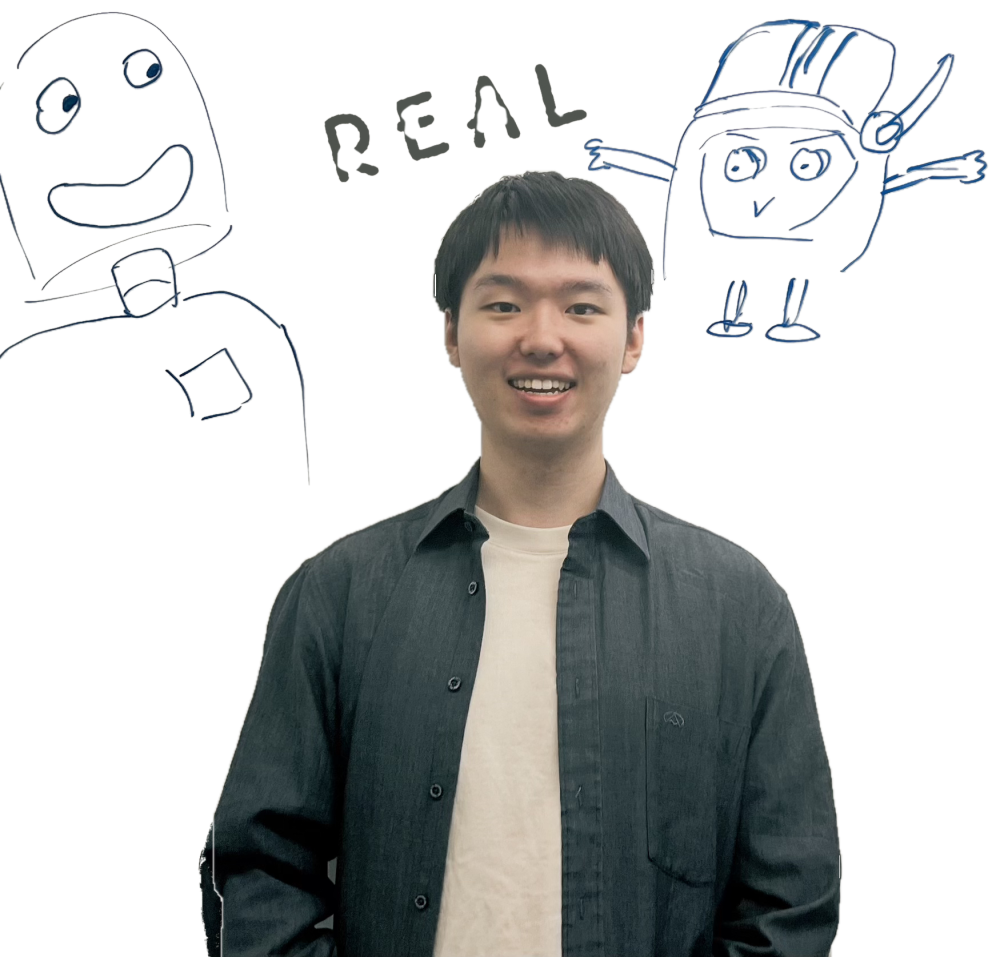
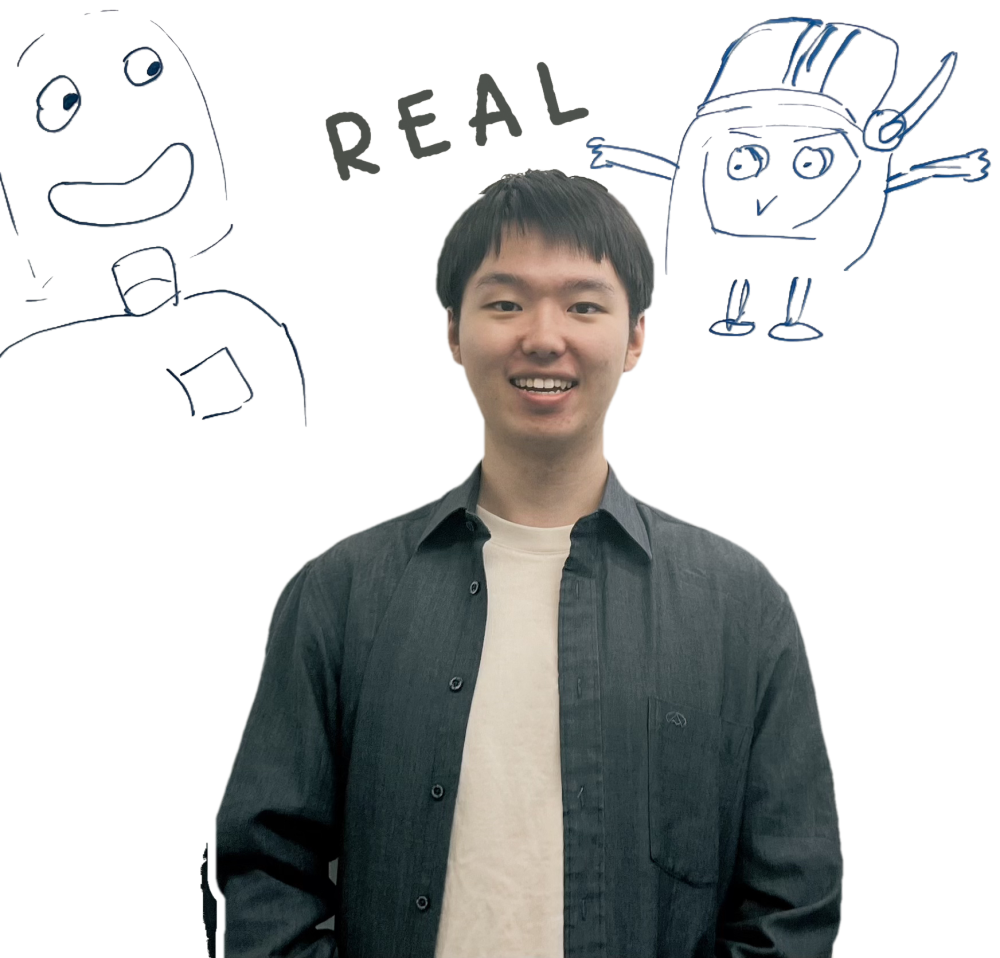
Redo the homepage hero with a cleaner cut-out and a standing layout
Extract the portrait, the blue whiteboard doodles and the REAL lettering
as separate layers so the cast shadow and shirt colour no longer leak
into the cut-out. Lay the hero out as a grid: the photo stands on a rule
beside the first paragraph on wide screens and centred above it on
phones; the research paragraph and links move below the rule.

Claude-Session: https://claude.ai/code/session_01Eatzbg6TZrfsAf8E21EAwq

diff --git a/assets/css/main.css b/assets/css/main.css
@@ -12,7 +12,7 @@
   --link: #151515;
   --mono: "IBM Plex Mono", ui-monospace, SFMono-Regular, Menlo, Consolas, monospace;
   --serif: "Instrument Serif", "Iowan Old Style", Georgia, "Times New Roman", serif;
-  --maxw: 780px;
+  --maxw: 800px;
   --gutter: 20px;
 }
 
@@ -83,11 +83,19 @@ code { font-family: inherit; background: #e9e9e2; padding: 0 .3em; }
 .lead { font-size: 17px; }
 .sub { color: var(--muted); }
 
-/* intro with cut-out photo */
-.intro { display: flex; gap: 32px; align-items: flex-start; margin-bottom: 1rem; }
-.intro-text { flex: 1 1 auto; min-width: 0; }
-.avatar { flex: 0 0 300px; width: 300px; margin-top: -6px; }
-.avatar img { display: block; width: 100%; height: auto; }
+/* hero: intro text with the cut-out photo standing on a rule */
+.hero {
+  display: grid;
+  grid-template-columns: minmax(0, 1fr) 330px;
+  column-gap: 36px;
+  align-items: end;
+  border-bottom: 1px solid var(--line-strong);
+  margin-bottom: 1.4rem;
+}
+.hero-text { padding-bottom: 1.4rem; min-width: 0; }
+.hero-text p:last-child { margin-bottom: 0; }
+.hero-photo { margin: 0; align-self: end; }
+.hero-photo img { display: block; width: 100%; height: auto; margin-bottom: -1px; }
 
 /* ---------- timeline ---------- */
 .timeline { list-style: none; margin: 0 0 1.5rem; padding: 0 0 0 28px; position: relative; }
@@ -139,8 +147,10 @@ code { font-family: inherit; background: #e9e9e2; padding: 0 .3em; }
   .site-header { padding-top: 28px; }
   .site-title { font-size: 34px; }
   .site-nav { gap: 4px 18px; margin-bottom: 32px; font-size: 15px; }
-  .intro { flex-direction: column-reverse; gap: 12px; }
-  .avatar { flex-basis: auto; width: 240px; }
+  .hero { grid-template-columns: 1fr; }
+  .hero-photo { order: -1; width: 82%; max-width: 360px; margin: 0 auto; }
+  .hero-text { padding-top: 1.2rem; padding-bottom: 1.2rem; border-top: 1px solid var(--line-strong); }
+  .hero { border-bottom: 1px solid var(--line); }
   .card-head { flex-direction: column; gap: 2px; }
   .kv li { grid-template-columns: 1fr; gap: 0; }
   .timeline { padding-left: 22px; }

diff --git a/index.md b/index.md
@@ -3,20 +3,21 @@ title: Home
 permalink: /
 ---
 
-<div class="intro">
-<div class="intro-text" markdown="1">
+<div class="hero">
+<div class="hero-text" markdown="1">
 
 I am a second-year PhD student in **Mechanical Engineering** at the University of California, Riverside, advised by [Prof. Mingyu Cai](https://sites.google.com/view/ucr-real/home) in the REAL Lab. Before that I received my M.S. in Computer Science from the University of Virginia (advised by [Prof. Shangtong Zhang](https://shangtongzhang.github.io/)) and my B.Eng. in Electronic Information Engineering from Huazhong University of Science and Technology (advised by [Prof. Xin Yang](https://sites.google.com/view/xinyang/home)).
 {: .lead}
+
+
+</div>
+<figure class="hero-photo"><img src="/images/licheng-cutout.png" alt="Licheng Luo in front of a whiteboard with two robot doodles and the word REAL" width="1000" height="958"></figure>
+</div>
 
 My research sits at the intersection of **robot learning, formal methods, and motion planning**. I am especially interested in making symbolic specifications, in particular **spatio-temporal logic**, *differentiable*, so that geometric and temporal task structure can be plugged directly into reinforcement learning, imitation learning, and policy evaluation pipelines.
 
 [CV ↗](/file/RL_Resume/LichengLuo_Resume.pdf){:target="_blank"} · [Google Scholar ↗](https://scholar.google.com/citations?user=BsZxB3wAAAAJ&hl=en){:target="_blank"} · [GitHub ↗](https://github.com/plen1lune){:target="_blank"}
 {: .sub}
-
-</div>
-<div class="avatar"><img src="/images/licheng-cutout.png" alt="Licheng Luo in front of a whiteboard with two robot doodles and the word REAL" width="1000" height="957"></div>
-</div>
 
 ## Research interests
 
